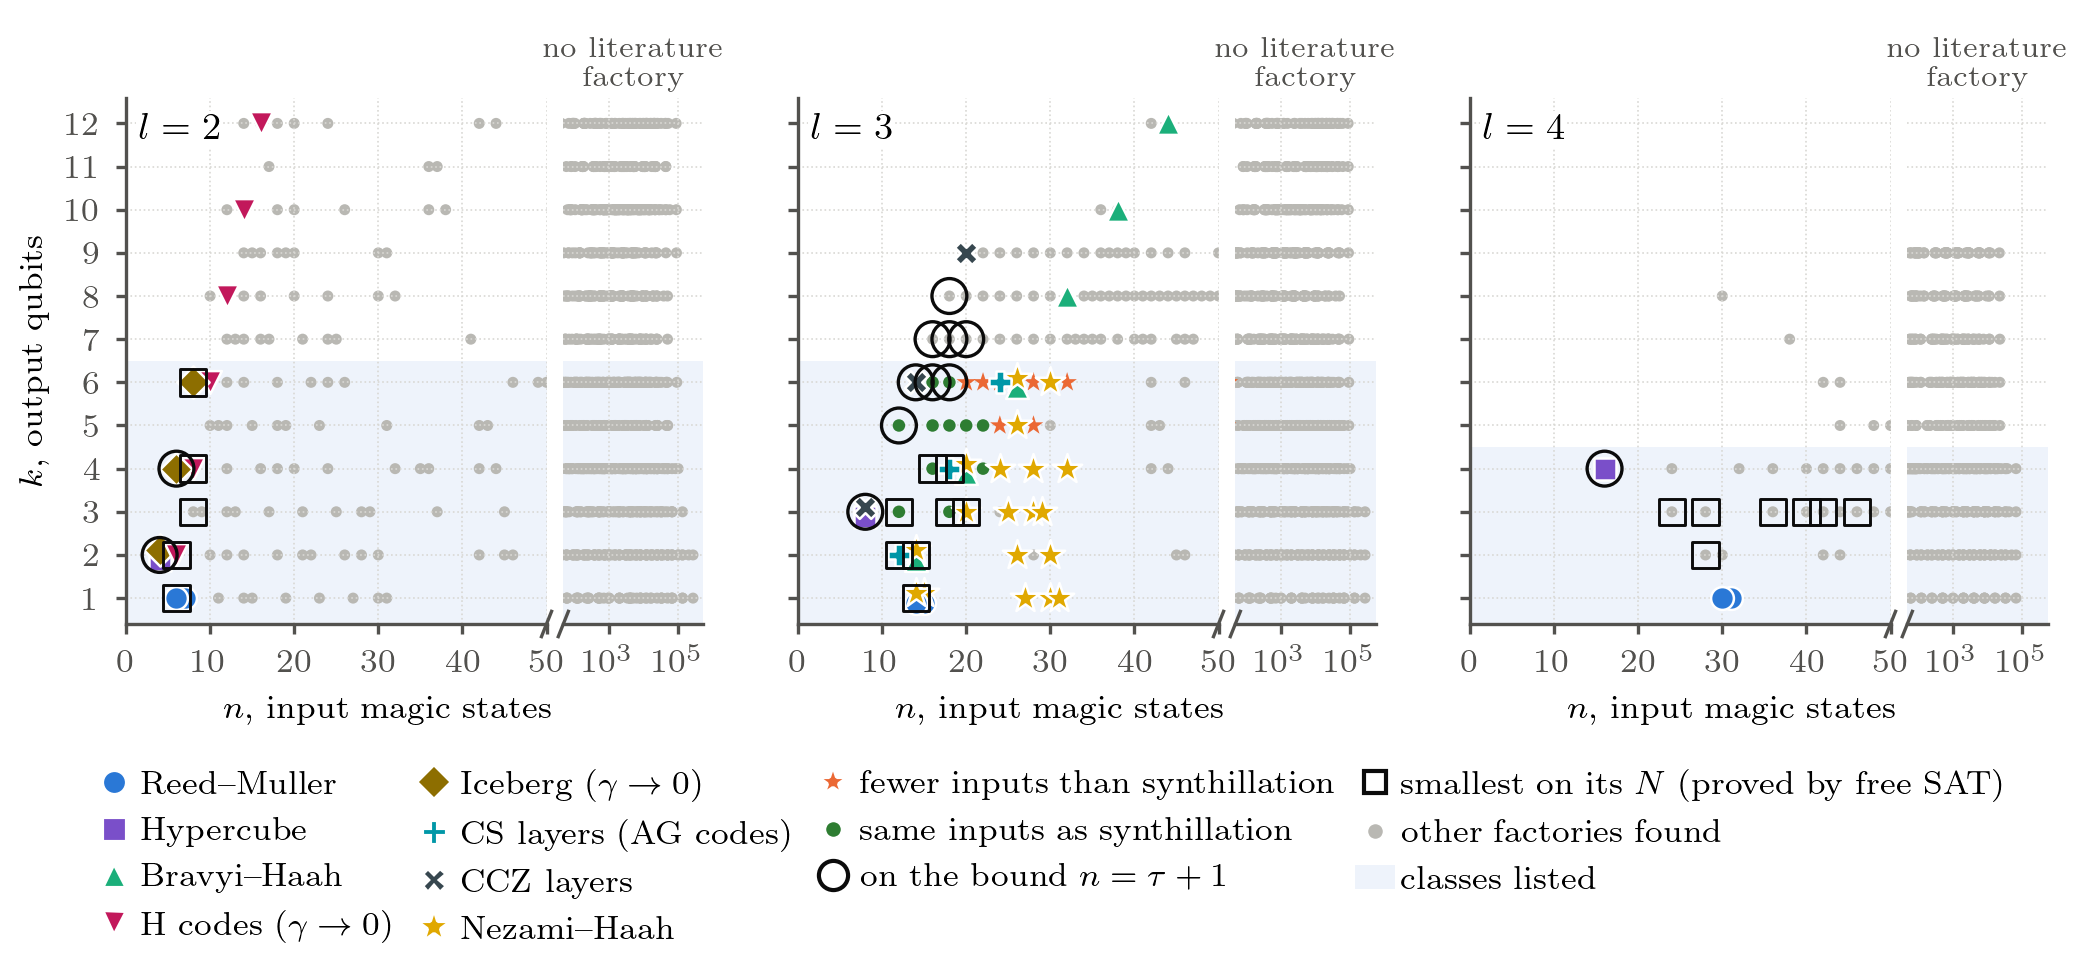
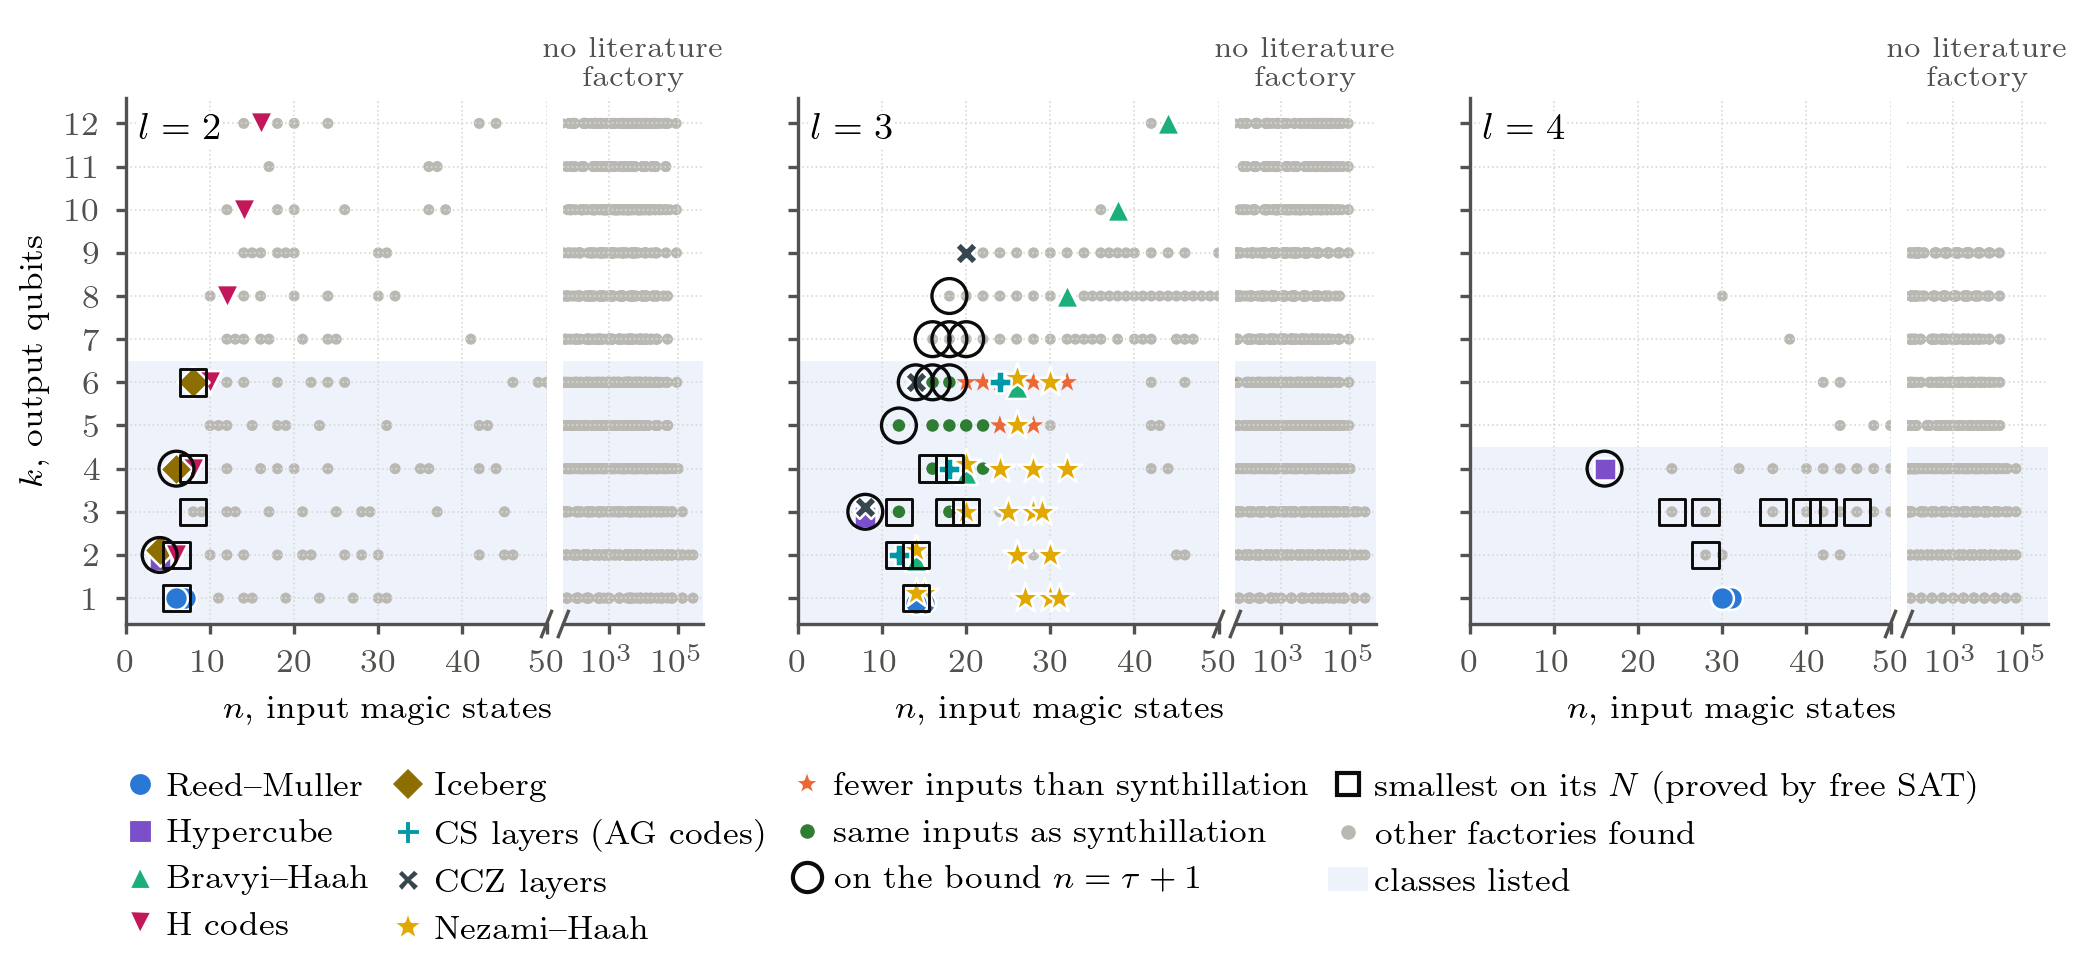
literature search

Changed region(s): [[0.031, 0.7692, 0.9595, 0.9846], [0.65, 0.8923, 0.7738, 0.9231]]

diff --git a/searches/plot_literature.py b/searches/plot_literature.py
@@ -43,7 +43,7 @@ plt.rcParams.update({"text.usetex": True, "font.family": "serif", "font.size": F
 INK, MUTED, GRAY, ORANGE, BAND = "#0b0b0b", "#52514e", "#b9b8b3", "#eb6834", "#eef3fb"
 FAM = {  # family -> (color, marker); slots of the repo palette, one marker each
     "Reed--Muller": ("#2a78d6", "o"), "Hypercube": ("#7a4fc9", "s"), "Bravyi--Haah": ("#1baf7a", "^"),
-    r"H codes ($\gamma\to0$)": ("#c2185b", "v"), r"Iceberg ($\gamma\to0$)": ("#8d6e00", "D"), r"$\mathrm{CS}$ layers (AG codes)": ("#0097a7", "P"),
+    r"H codes": ("#c2185b", "v"), r"Iceberg": ("#8d6e00", "D"), r"$\mathrm{CS}$ layers (AG codes)": ("#0097a7", "P"),
     r"$\mathrm{CCZ}$ layers": ("#37474f", "X"), "Nezami--Haah": ("#e0a800", "*")}
 SYN = "#2e7d32"                                        # l=3 main-sweep sizes where the factory ties synthillation
 
@@ -86,10 +86,10 @@ def literature(LU, SB):
         put("Hypercube", (l, 2 ** l, l), find(l, 2 ** l, l, lambda _: True))
     for k in range(2, 13, 2):
         put("Bravyi--Haah", (3, 3 * k + 8, k), find(3, 3 * k + 8, k, single))
-        put(r"H codes ($\gamma\to0$)", (2, k + 4, k), find(2, k + 4, k, single))
+        put(r"H codes", (2, k + 4, k), find(2, k + 4, k, single))
     for k in range(2, 13, 2):
         r = find(2, k + 2, k, lambda r: layer(r["reduced"], "CZ", k, 2))
-        if r: out[(2, k + 2, k)].append(r"Iceberg ($\gamma\to0$)")
+        if r: out[(2, k + 2, k)].append(r"Iceberg")
     for m in range(1, 7):
         r = find(3, 6 * m + 6, 2 * m, lambda r, m=m: layer(r["reduced"], "CS", 2 * m, 2))
         if r: out[(3, 6 * m + 6, 2 * m)].append(r"$\mathrm{CS}$ layers (AG codes)")
